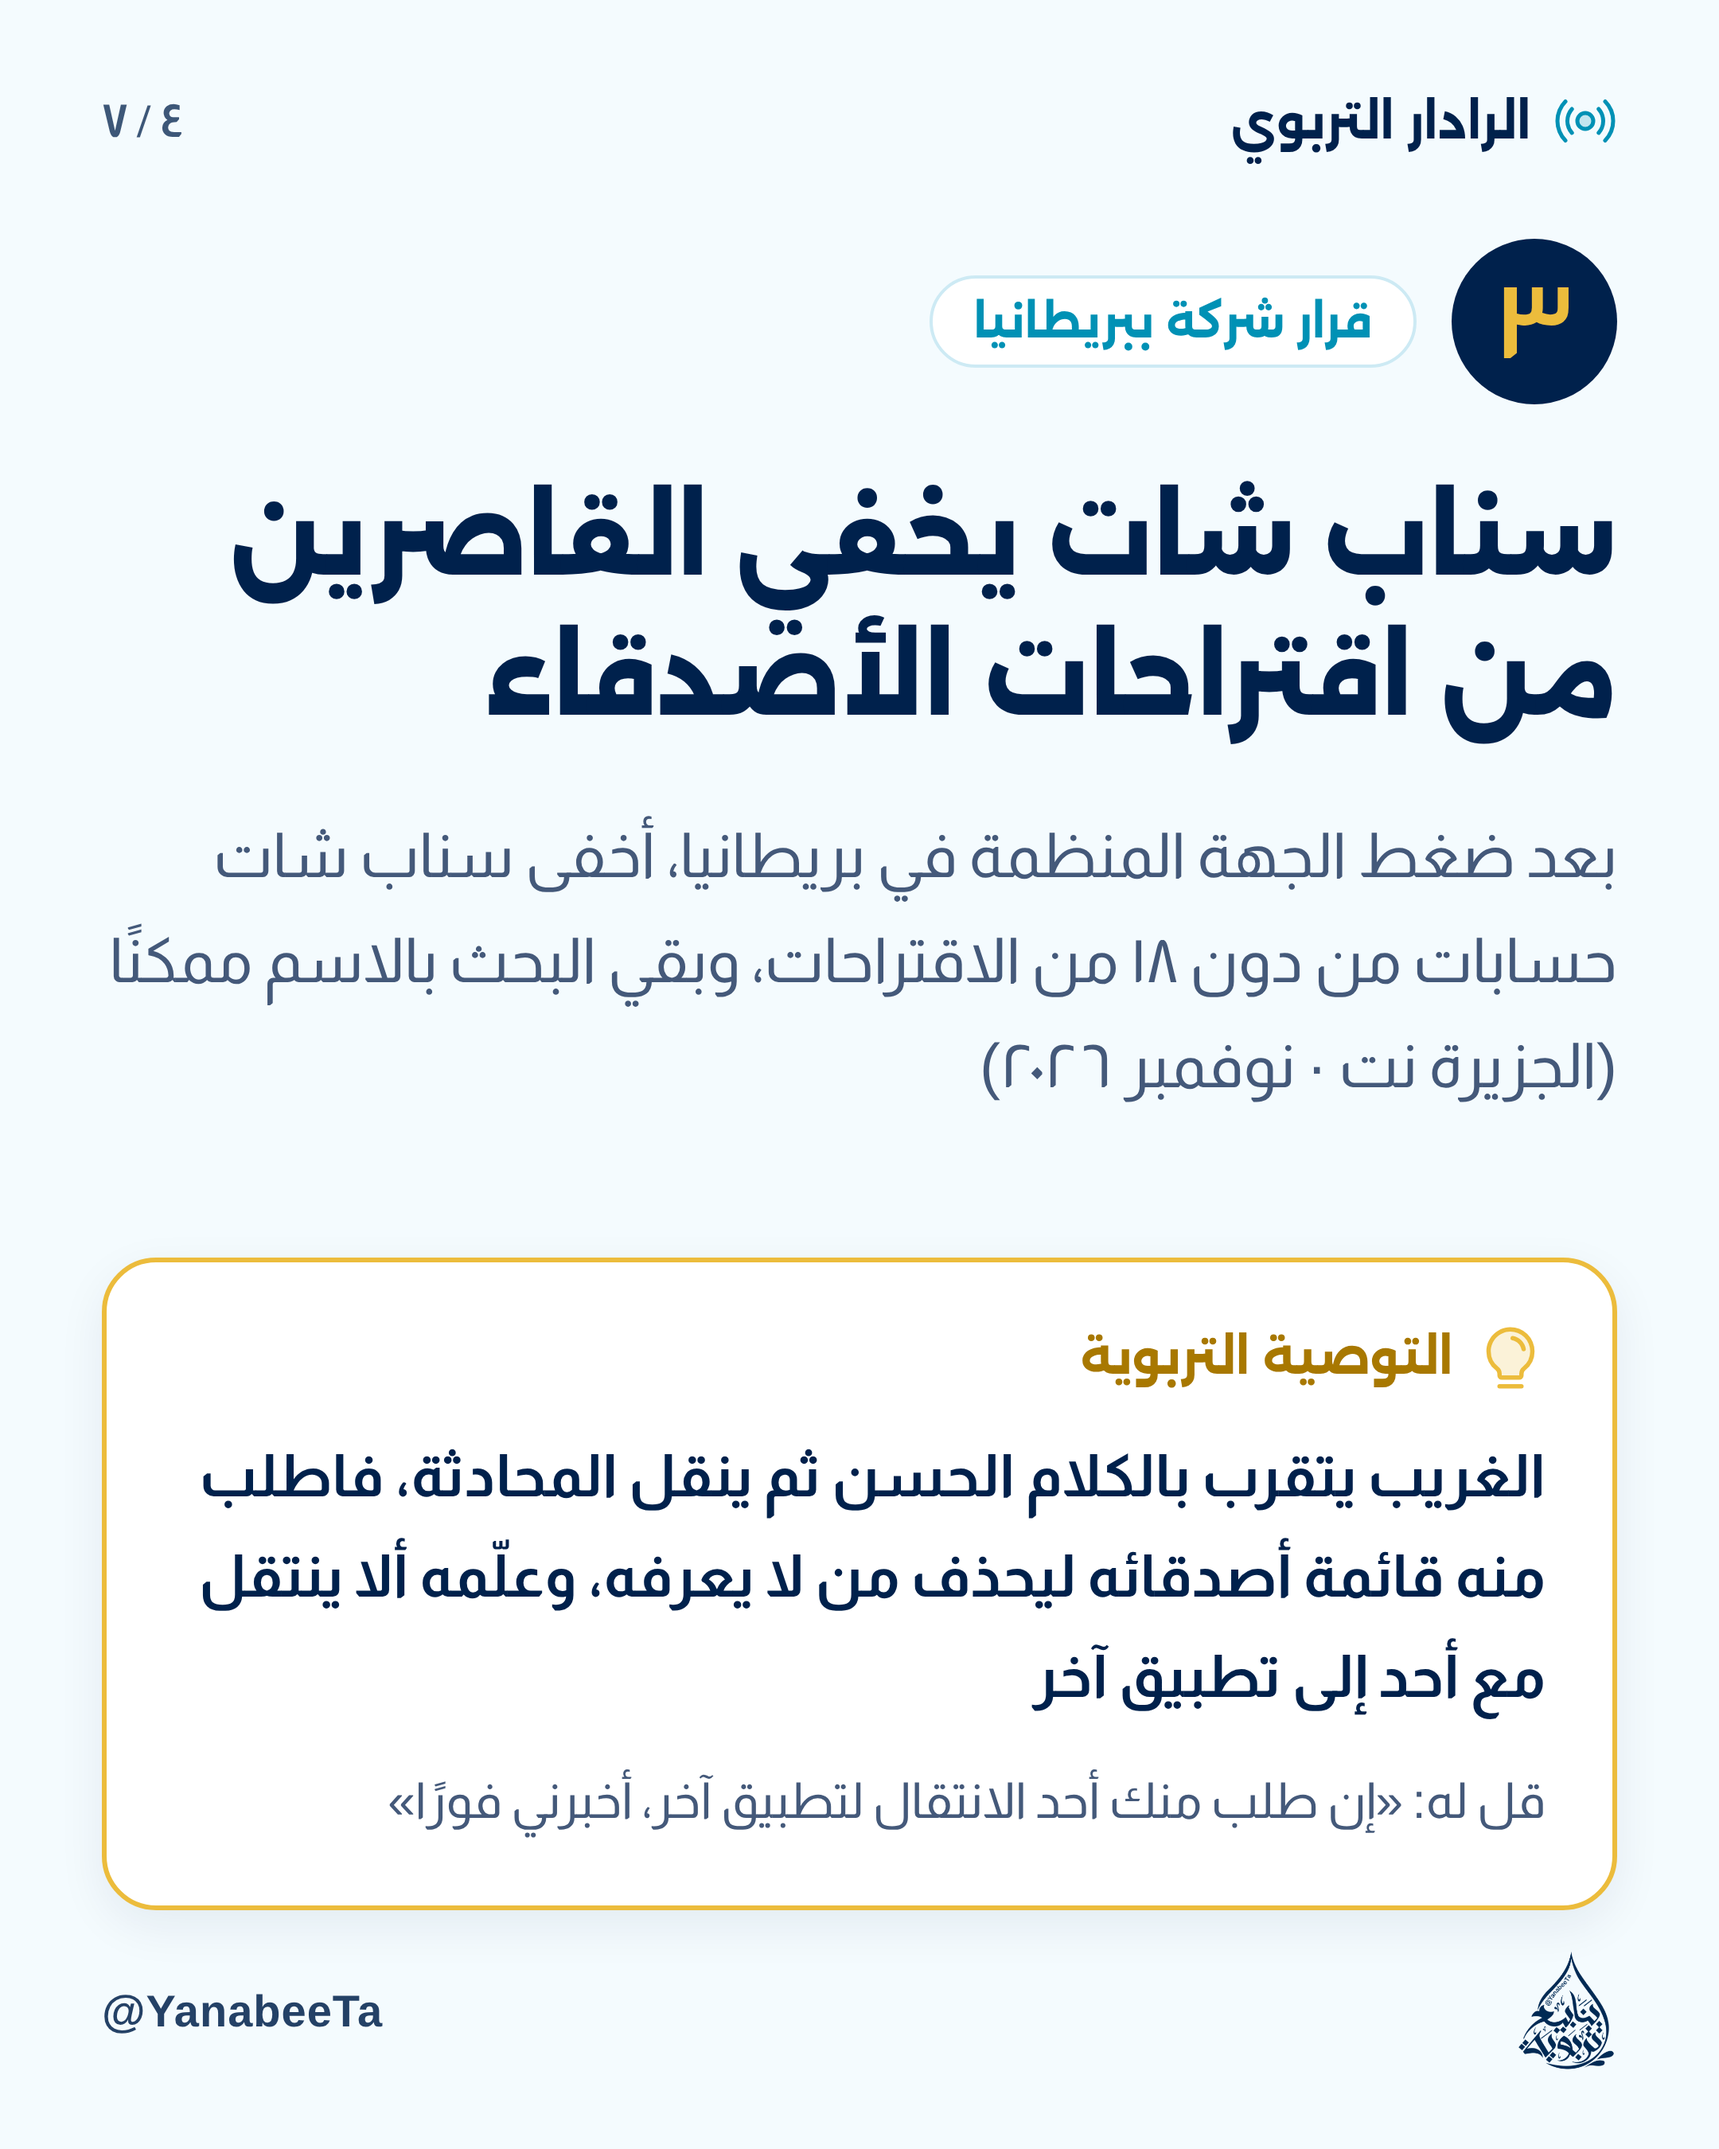
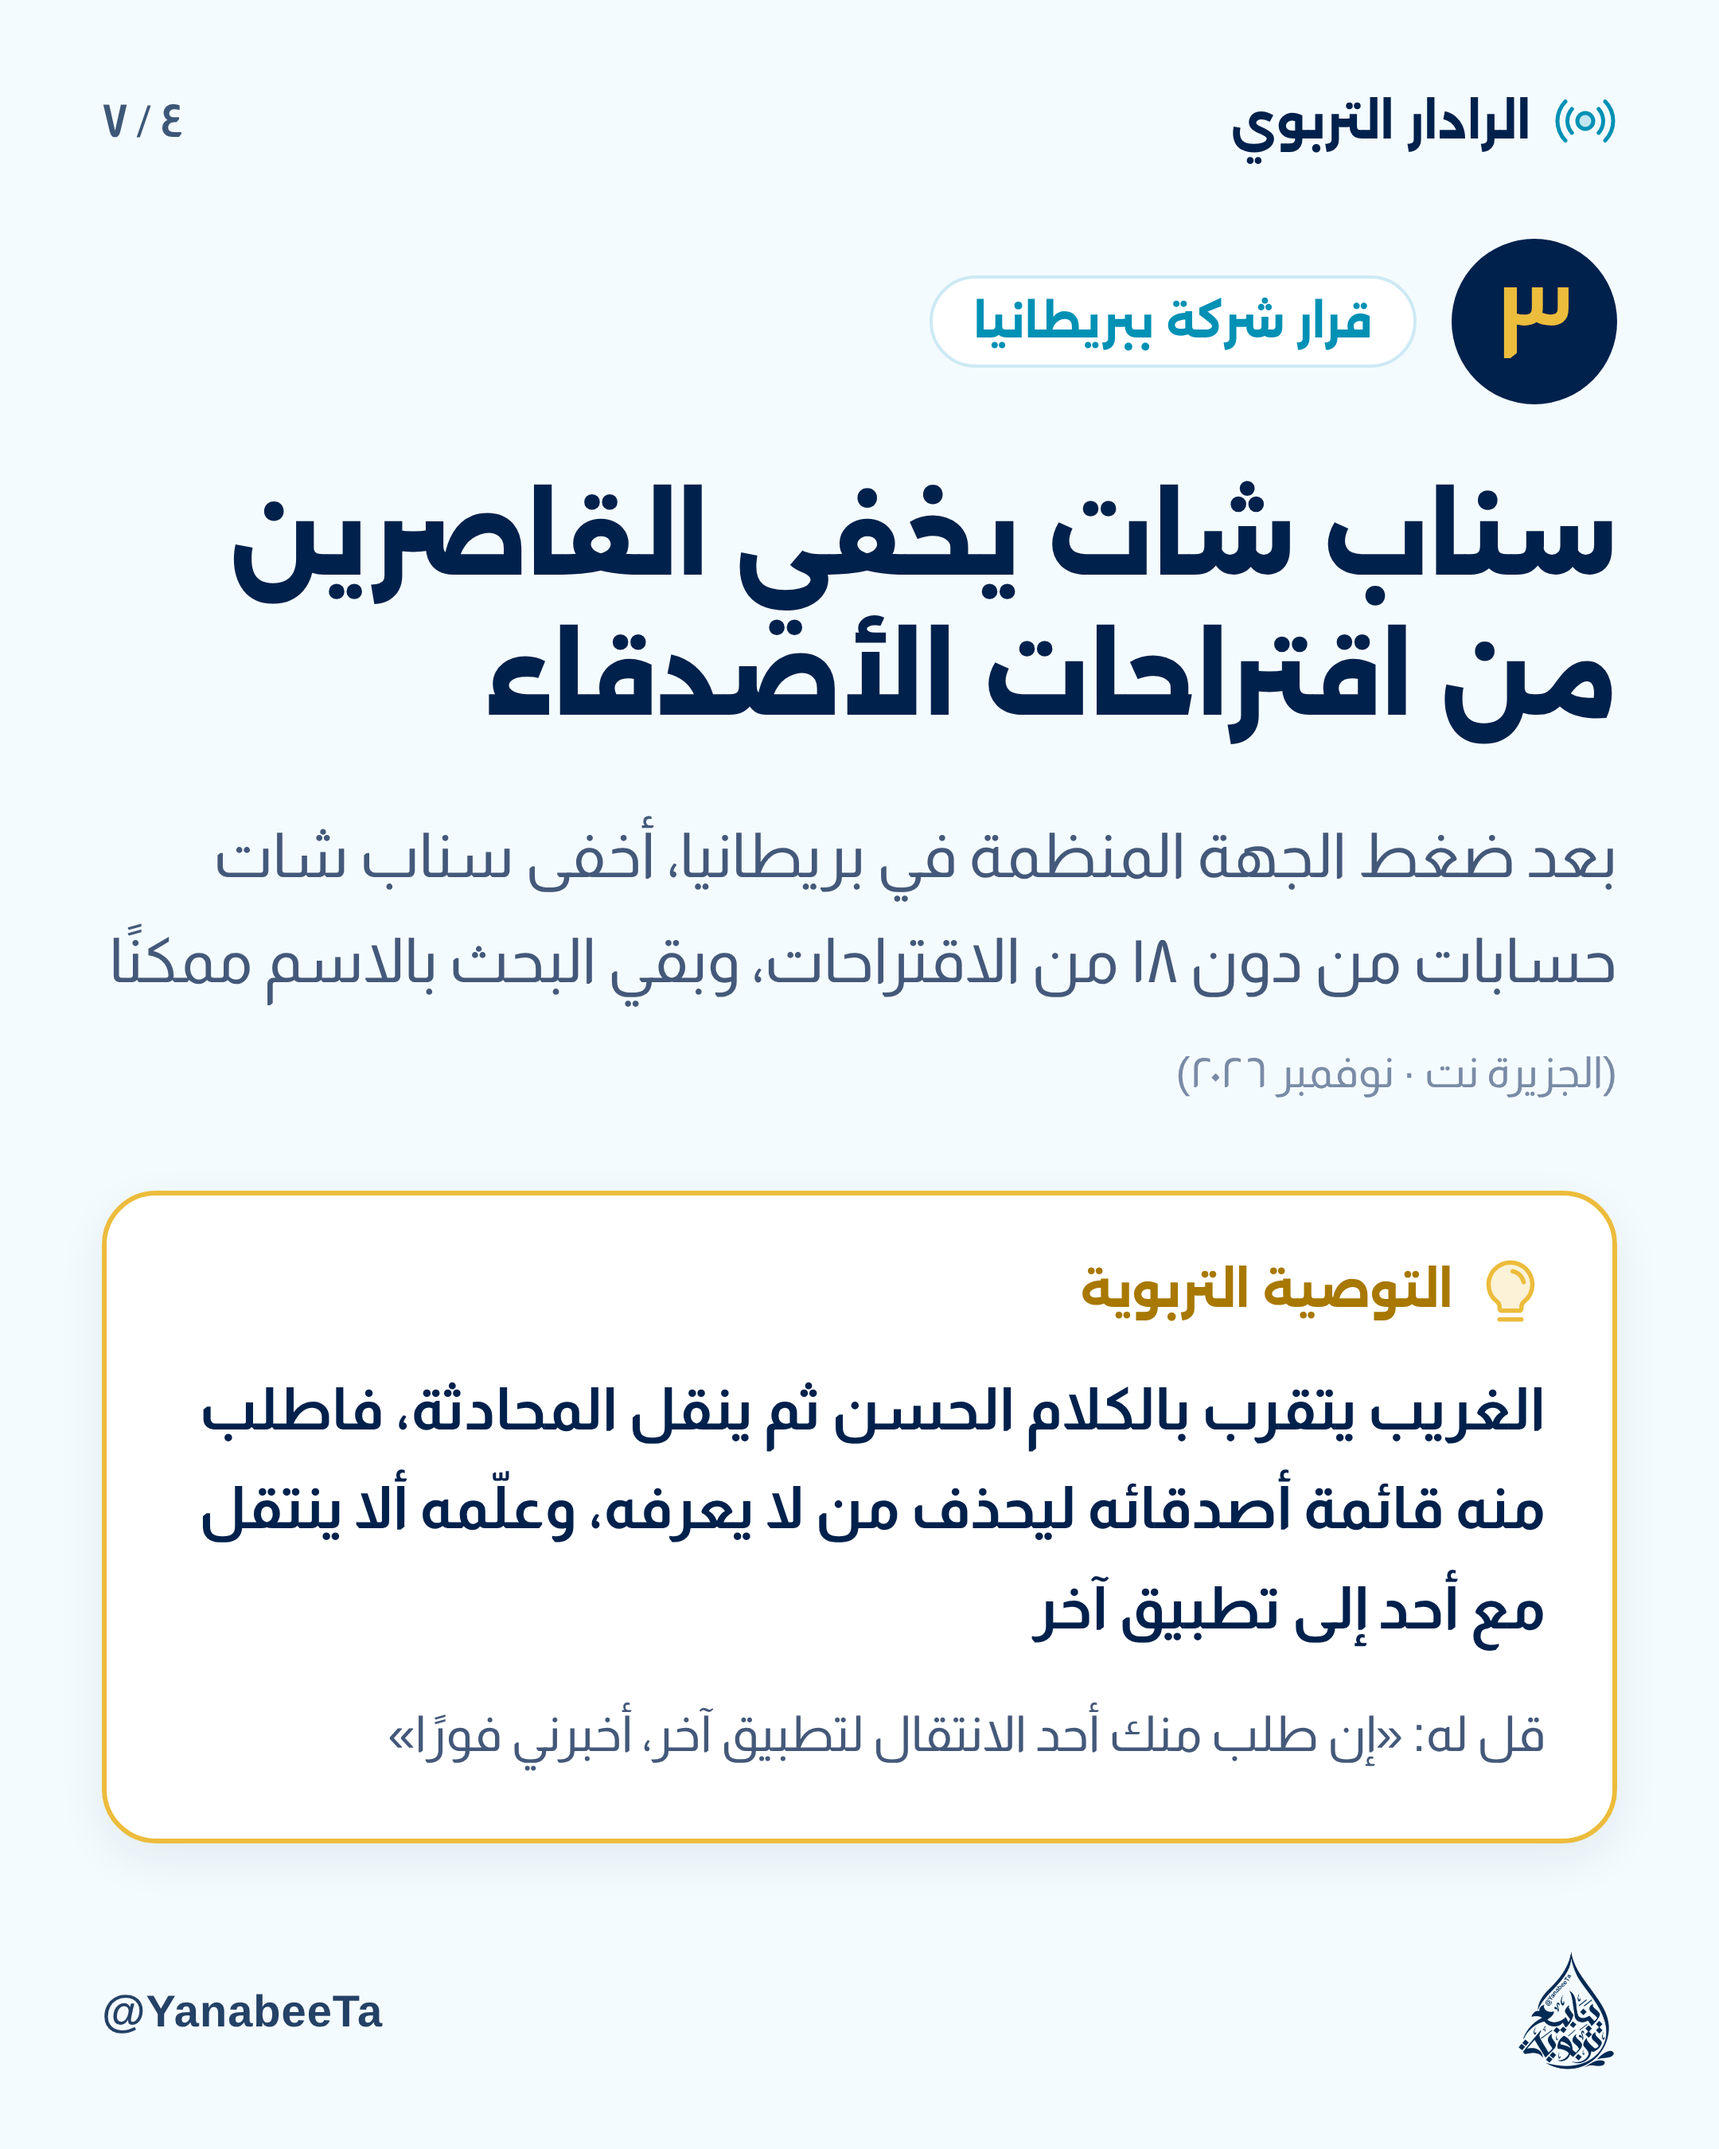
تصغير المصدر ورفع التوصية

diff --git a/tools/radar/render_radar.py b/tools/radar/render_radar.py
@@ -99,8 +99,8 @@ def event(i, e):
         <div class="d" style="background:#fff;border:2px solid {LN};color:{CYT};border-radius:999px;padding:10px 26px;font-size:28px;font-weight:700">{E(e['tag'])}</div>
       </div>
       <div class="d" style="font-size:64px;font-weight:800;line-height:1.38;margin-top:40px">{dg(E(e['title']))}</div>
-      <div style="font-size:39px;line-height:1.7;color:{SUB};margin-top:34px;font-weight:400">{E(e['fact'])} <span dir="rtl" style="unicode-bidi:isolate;white-space:nowrap">({E(e['src'])})</span></div>
-      <div style="margin-top:auto;background:#fff;border:3px solid {GD};border-radius:34px;padding:38px 42px 40px;box-shadow:0 10px 30px rgba(0,33,76,.07)">
+      <div style="font-size:39px;line-height:1.7;color:{SUB};margin-top:34px;margin-bottom:44px;font-weight:400">{E(e['fact'])} <span dir="rtl" style="unicode-bidi:isolate;white-space:nowrap;font-size:27px;color:#7a8ba6">({E(e['src'])})</span></div>
+      <div style="margin-top:auto;margin-bottom:80px;background:#fff;border:3px solid {GD};border-radius:34px;padding:38px 42px 40px;box-shadow:0 10px 30px rgba(0,33,76,.07)">
         <div class="d" style="display:flex;align-items:center;gap:14px;color:#a87800;font-size:30px;font-weight:700">{ic('lightbulb',44,GD)}<span>التوصية التربوية</span></div>
         <div style="font-size:37px;line-height:1.7;margin-top:22px;color:{NAVY};font-weight:700">{E(e['act'])}</div>
         <div style="font-size:31px;line-height:1.6;margin-top:22px;color:{SUB}">قل له: «{E(e['say'])}»</div>
